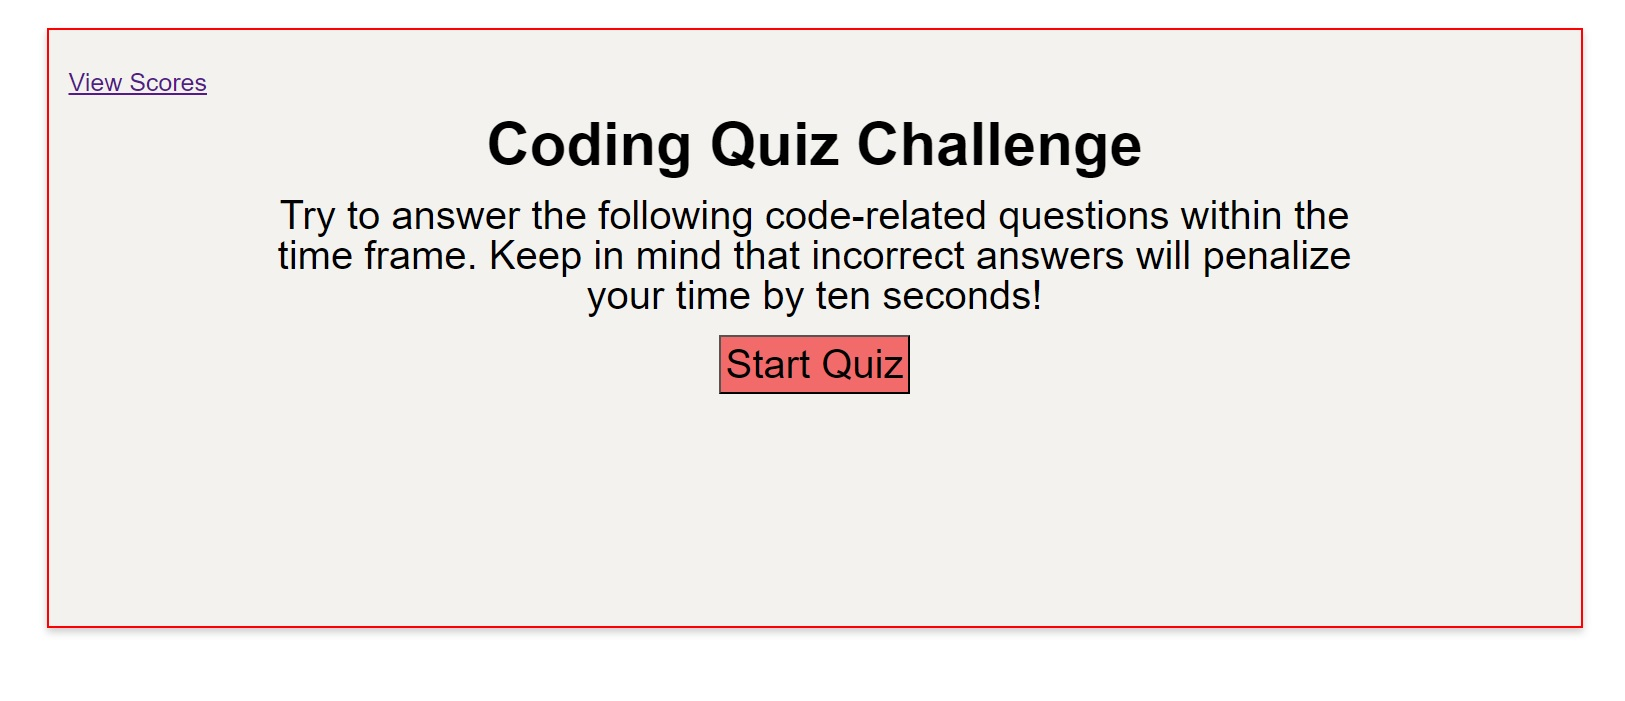
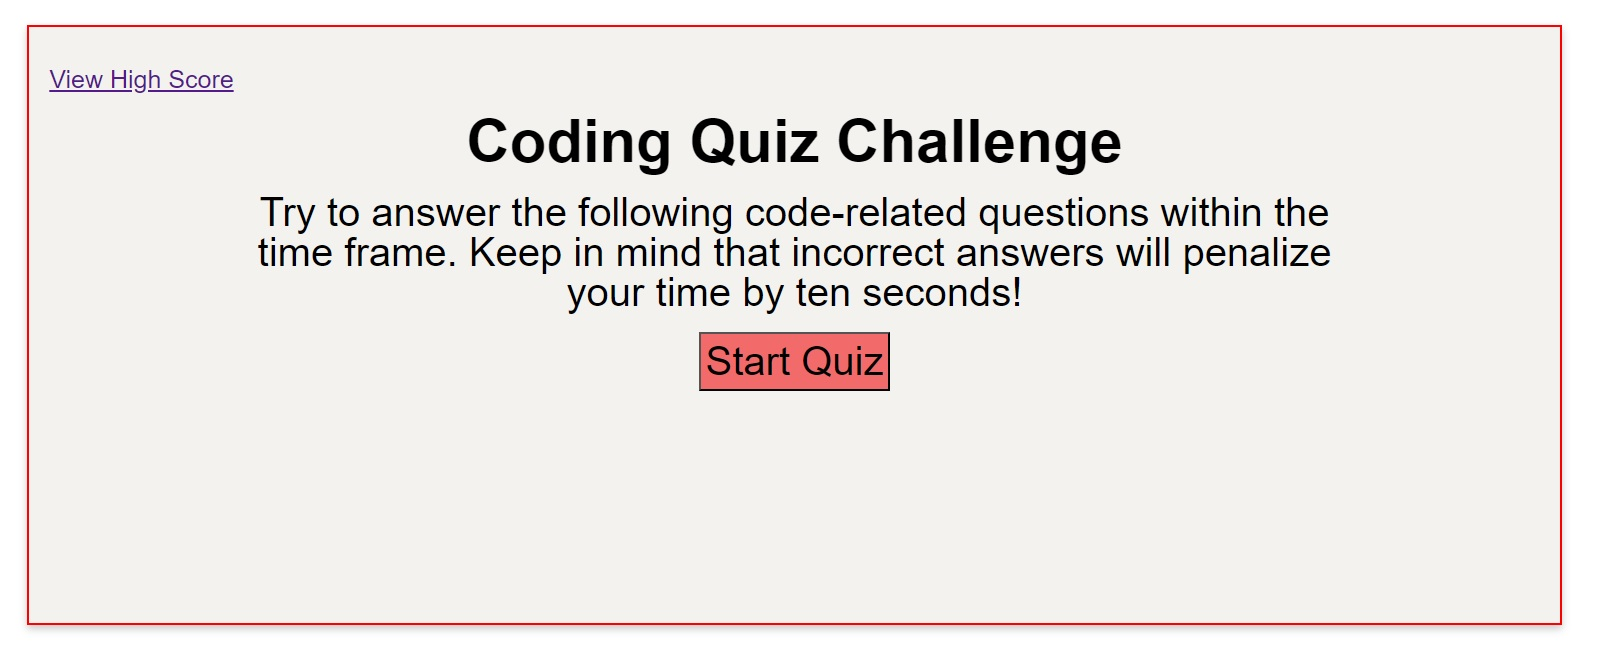
add readme, correct high score, cleanup responsive design

Changed region(s): [[0.1552, 0.149, 0.838, 0.5961], [0.0, 0.0298, 0.9932, 0.9538]]

diff --git a/assets/js/script.js b/assets/js/script.js
@@ -16,6 +16,8 @@ var numCorrect = 0;
 scoreSubmit = document.querySelector("#subUp");
 var nameLocal = document.querySelector('.newName');
 var notHigh = document.querySelector('#notHigh');
+var scoreHere = 0;
+
 const quizQuest = [
     {
         quest:"Commonly used data types DO NOT include:",
@@ -113,7 +115,7 @@ function checkAnswer(event) {
     }
 // Hide question/answer dialog, 
 function endScore() {
-    var scoreHere = secTimer++;
+    scoreHere = secTimer++;
     question.textContent = "";
     boxZero.style.display = "none";
     boxOne.style.display = "none";
@@ -124,17 +126,26 @@ function endScore() {
     newestScore.textContent = scoreHere;
 
     scoreSubmit.addEventListener("click", function() {
-        var highLocal = JSON.parse(localStorage.getItem('scoreslog'));
-        if (highLocal.scoreHere < scoreHere){
+        let highLocal = JSON.parse(localStorage.getItem('scoreslog'));
+        if (highLocal === null){
         var lsJSON = {
             nameLocal: nameLocal.value,
             scoreHere: scoreHere
         };
         localStorage.setItem("scoreslog", JSON.stringify(lsJSON));
-    }else{notHigh.textContent="Sorry, your score is not a high score."}
-    })
-    
-};
+        notHigh.textContent="New high Score! Well done.";
+    } else{ 
+        if (highLocal.scoreHere > scoreHere) {
+        notHigh.textContent="Sorry, your score is not a high score.";}
+        else{
+            lsJSON = {
+            nameLocal: nameLocal.value,
+            scoreHere: scoreHere
+        };
+        localStorage.setItem("scoreslog", JSON.stringify(lsJSON));
+        notHigh.textContent="New high Score! Well done."; }
+    }})}
+
 // Begin test when start button pressed
 begin.addEventListener("click", startTest);
 // Check answer when choice is made

diff --git a/assets/css/style.css b/assets/css/style.css
@@ -72,3 +72,30 @@ nav {
     font-weight: 900;
     color: darkcyan;
 }
+
+/* Tablets */
+@media screen and (max-width: 992px) {
+.container{ width:95%;
+               height: auto;
+}
+
+.question{ 
+    padding: 0px;
+    font-size: 18px;
+}
+h1,
+button{font-size: 25px;}
+
+.box,
+nav,
+.time,
+.scoresheet {
+    font-size: 18px;
+ }
+}
+  /* Small smartphones
+  @media screen and (max-width: 576px) {
+    .sample-img {
+      background-color: ;
+    }
+  } */

diff --git a/assets/js/script2.js b/assets/js/script2.js
@@ -2,6 +2,8 @@ var boardName = document.querySelector("#highName");
 var boardScore = document.querySelector("#highScore");
 var localScore = JSON.parse(localStorage.getItem("scoreslog"));
 
-boardName.textContent = (localScore.nameLocal);
-boardScore.textContent = (localScore.scoreHere);
-
+if (localScore === null) {
+    boardName.textContent = ("No scores here yet");
+} else {
+boardName.textContent = (localScore.nameLocal  + "  " + localScore.scoreHere);
+}

diff --git a/README.md b/README.md
@@ -1,0 +1,30 @@
+# CodeQuiz
+
+## Description
+
+A timed multiple choice quiz on code related questions.  It is designed to easily add additional or modify current questions.  
+
+## Installation
+
+Follow https://carioto.github.io/Coding-Quiz/ to begin the application.
+
+## Usage
+
+Use this app to get practice with some coding questions
+in multiple choice format.  
+![screenshot](/assets/images/main-image.jpg)
+
+## Credits
+
+Icon by Nur Achmadi Yusuf at https://freeicons.io/quiz/quiz-exam-education-test-game-icon-829251
+
+Reviewing examples and suggestions on the following sites assisted in the creation of this app:
+
+https://www.sitepoint.com/simple-javascript-quiz/
+
+https://webdesign.tutsplus.com/multiple-choice-quiz-app-with-javascript--cms-107756t
+
+https://forum.freecodecamp.org/t/javascript-quiz-with-multiple-questions/272164/3
+
+as well as guidance from the MDN website, and some critical assistance from the AskBCS Learning Assistant
+
